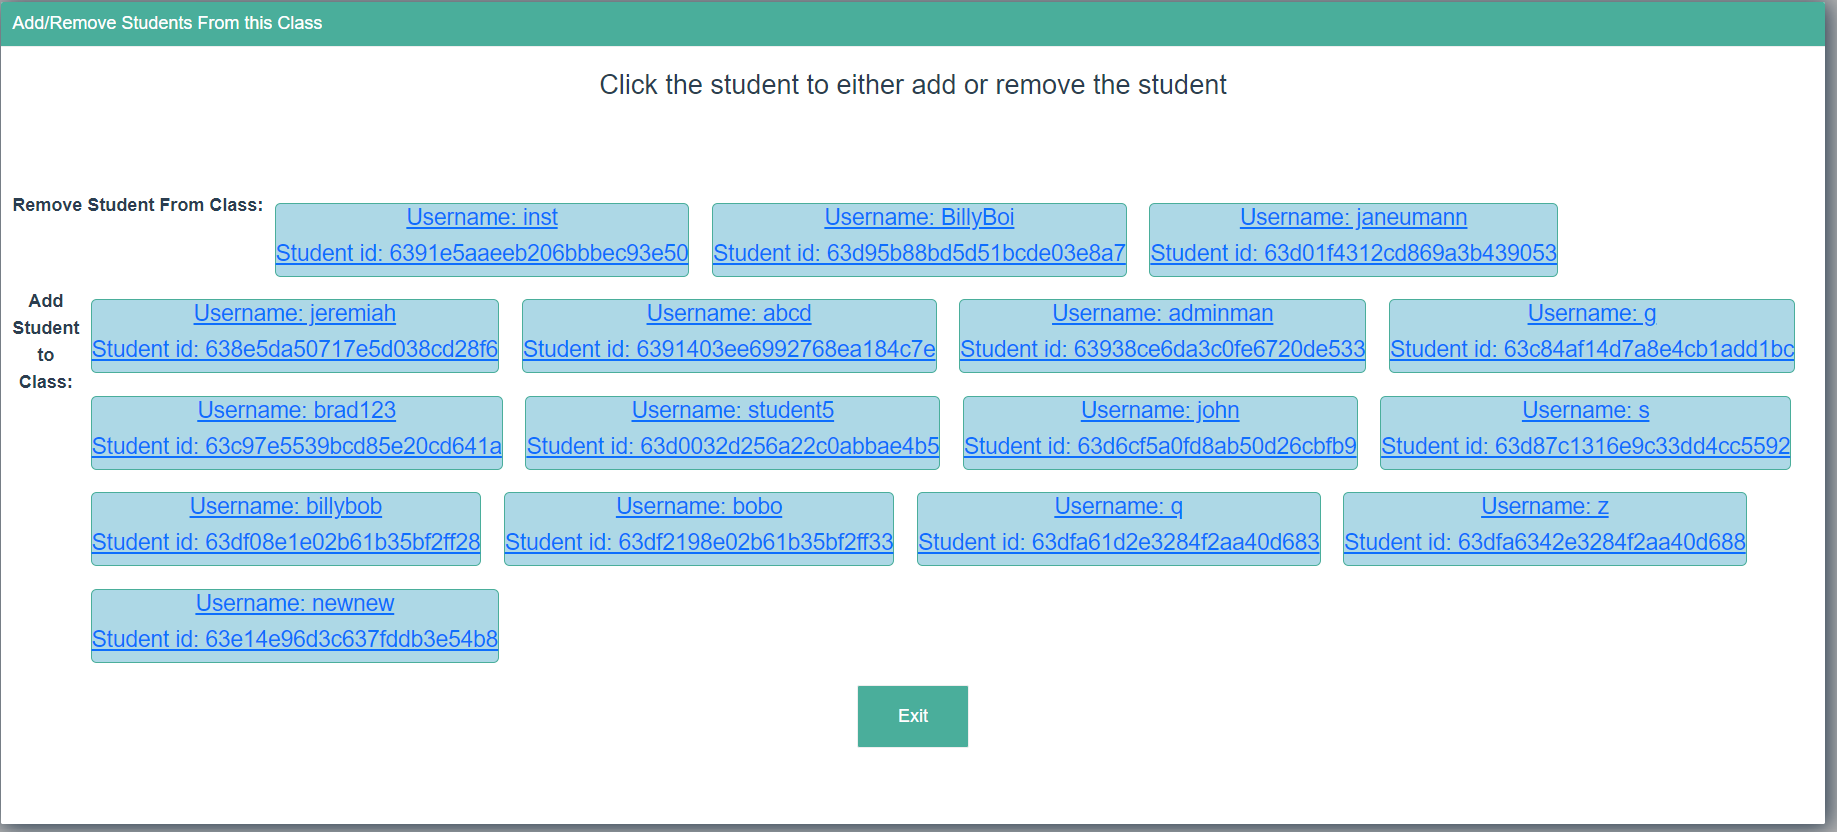
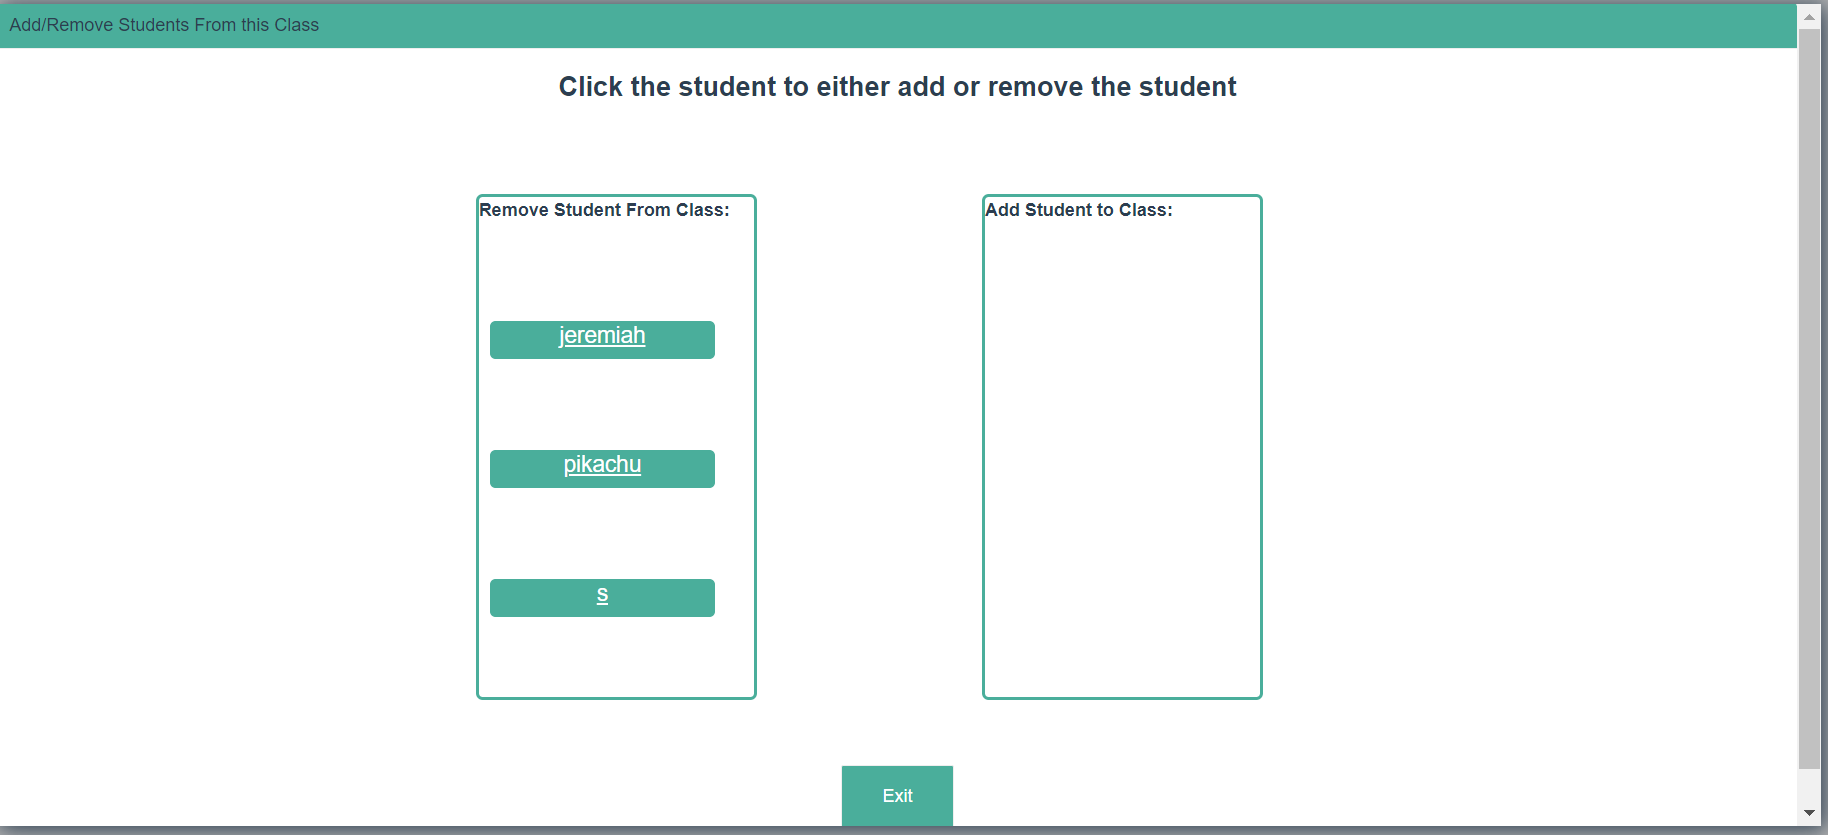
update user.md

diff --git a/Documentation/User.md b/Documentation/User.md
@@ -40,8 +40,8 @@ This is the documentation that guides a user on how to use the Ref-Reps Right ca
 - Multiple files can be uploaded at the same time.
 - For the video input, there are three supported types of videos that can be uploaded: MP4, WebM, and Ogg.
 - Once selected, they would then click upload and if it works, it would direct them back to the admin page and a lesson(s) would succesfully be created.
-- A message will appear to let the admin know the video is still uploading.
-- The video may take a little bit (around 10 seconds) to upload, so don't click upload again or anything else until redirected back to the admin page. 
+- A message will appear to let the admin know the lesson is still uploading.
+- The lesson may take a little bit (around 10 seconds per video in lesson) to upload, so don't click upload again or anything else until redirected back to the admin page. 
 
 
 ## Deleting Videos/Lessons
@@ -60,6 +60,7 @@ This is the documentation that guides a user on how to use the Ref-Reps Right ca
 
 - The User would be taken to a Lesson Creation page where they can add timestamps to the video they uploaded and cannot save/upload the lesson until they attach a question to it.
 - User would click the "Add Timestamp Here" button to save a timestamp where that timestamp would then appear in a menu above the big button with an additional option to add an activity.
+- The user can also update the lesson name at any time by typing in the new name and clicking the Update Name button.
 - The user cannot save/upload the timestamp until each timestamp has a filled out question attached to it.
 
 <img src="Assets/questionTypeOptions.PNG" width="600">
@@ -86,14 +87,12 @@ This is the documentation that guides a user on how to use the Ref-Reps Right ca
 <img src="Assets/newFeedback.PNG" width="600">
 
 - Creating Feedback for quiz questions works very similar to how creating an activity works. Once you Add a Timestamp, you will be able to click on the right button to add the Feedback. Clicking that button will bring up the Feedback modal. 
+- An Activity will not be uploaded and saved unless both the question and feedback are filled out.
 
 ## Instructor Logged In
 <img src="Assets/instructorHomePage.png" width="600">
 
-- When an instructor logs in, their middle button on the instructor page is to edit the current lessons already uploaded by the admins. 
-- Clicking on a lesson would send them to the exact same assign timestamps and questions to the lesson page as the admin.
-- They can add questions to timestamps and the page operates identically to the admin's assign timestamps and questions page that has been described in detail above in the admin instructions.
-- The instructor can just click the Instructor Page button at the top of the screen to go back to their home page where they can select what they want to do.
+- When an instructor logs in, they will see four buttons to choose from.
 
 <img src="Assets/createClass.png" width="600">
 
@@ -106,21 +105,22 @@ This is the documentation that guides a user on how to use the Ref-Reps Right ca
 <img src="Assets/addVideosToClass.png" width="600">
 
 - After creating a class, they are back on the instructor page, and then the instructor can click the Update Class option. 
-- On this page, they can see all of the classes they have created, along with the number of students and videos in the class.
-- The instructor can add/remove students to and from the class, and they can also add/remove videos to the class. 
+- On this page, they can see all of the classes they have created, along with the number of students and lessons in the class.
+- The instructor can add/remove students to and from the class, and they can also add/remove lessons to the class. 
+- They can only add their own custom lessons to their classes.
 
 <img src="Assets/addStudentsToClass.png" width="600">
 
 - Instructor can select the Add/Remove Students button.
-- The instructor sees all available students, and can either click a student from the top section to remove from the class or a student from the bottom section to add to the class.
+- The instructor sees all available students, and can either click a student from the left section to remove from the class or a student from the right section to add to the class.
 
 <img src="Assets/addVideosToInstructorClass.png" width="600">
 
 - Instructor can select the Add/Remove Lessons button.
-- Here they can see all available videos/lessons they can add to the class.
-- Right now there are zero videos in the class, to add one, the instructor can just click a video from the bottom section.
-- To remove a video from the class, the instructor must select a video from the top section.
-- All students can only take video quizzes that are assigned to the classes they are in.
+- Here they can see all of their custom lessons they can add to the class.
+- Right now there are zero lessons in the class, to add one, the instructor can just click a lesson from the right section.
+- To remove a lesson from the class, the instructor must select a lesson from the left section.
+- All students can only take video quizzes in lessons that are assigned to the classes they are in.
 
 <img src="Assets/createCustomLesson.PNG" width="600">
 
@@ -147,9 +147,14 @@ This is the documentation that guides a user on how to use the Ref-Reps Right ca
 - Select a lesson by clicking on a lesson object.
 
 ## Completing a Lesson
+<img src="Assets/availableQuizzes.png" width="600">
+
+- After selecting a lesson, the user sees the quizzes in the lesson.
+- The user can then select a quiz to take.
+
 <img src="Assets/webcamPermission.png" width="600">
 
-- After selecting a lesson, the user is asked if they want to use their camera for eye-tracking questions. 
+- After selecting a quiz, the user is asked if they want to use their camera for eye-tracking questions. 
 
 <img src="Assets/video_start.png" width="600">
 
@@ -173,7 +178,12 @@ This is the documentation that guides a user on how to use the Ref-Reps Right ca
 - If the student selects accept to use their webcam, they are sent to the eye-tracking calibratiom page.
 - This page is only completed once per login session.
 - The student must wait around 5-10 seconds for the red dot to show up on their screen. Once it displays, the student must click all five buttons five times each until each one is red. 
-- After that, select the button in the middle that shows up.
+- A pop-up then appears telling you to stare at the red button in the middle of the screen for 5 seconds to check the accuracy of the eye-tracking.
+- The user closes the pop-up and stares at the red button.
+- After 5 seconds, two buttons appear. 
+- One to redo the eye-tracking calibration and another to go back to the quiz.
+- If the user feels like the red dot wasn't accurate when staring at the middle button, they can choose to redo it.
+- If it was accurate, they can select the go back to the quiz button.
 - The student is sent back to the video, and they can press play and start the quiz.
 - Questions can show up at any timestamps. 
 
